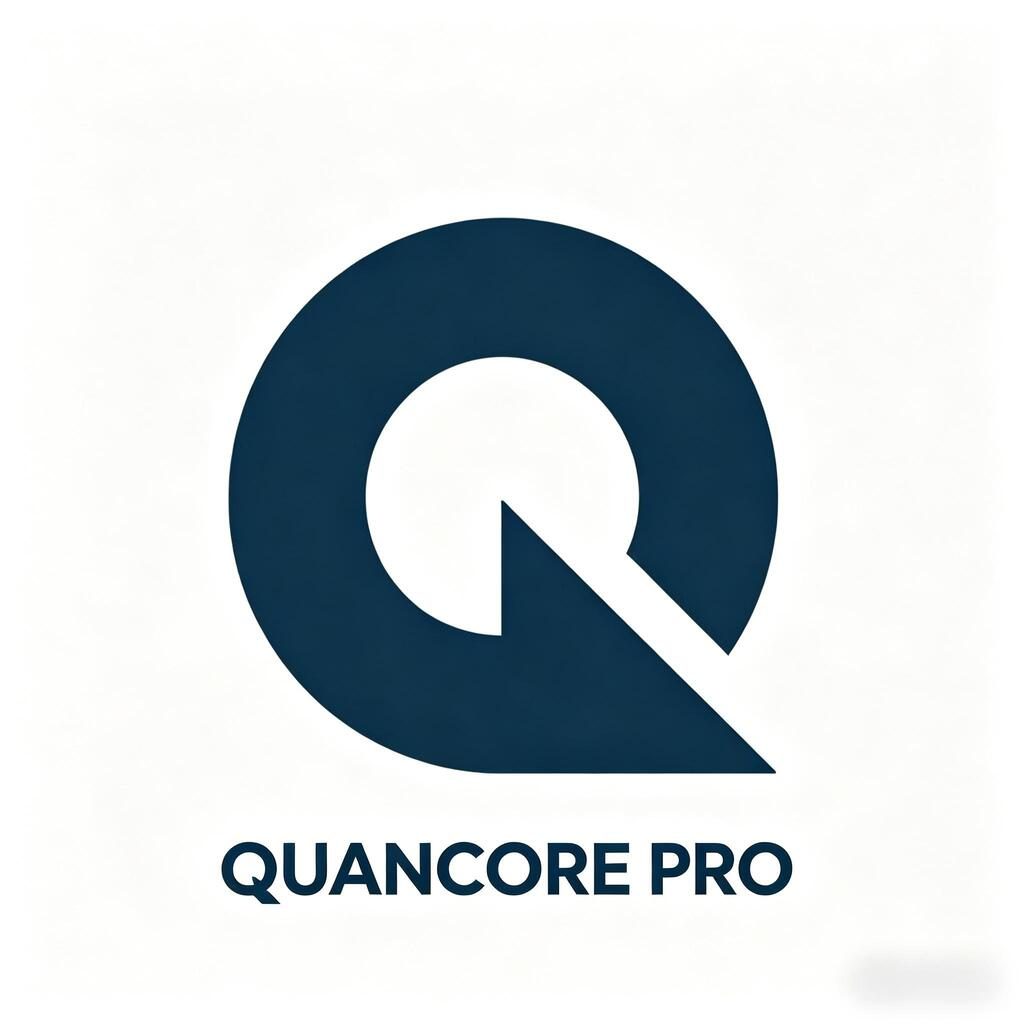
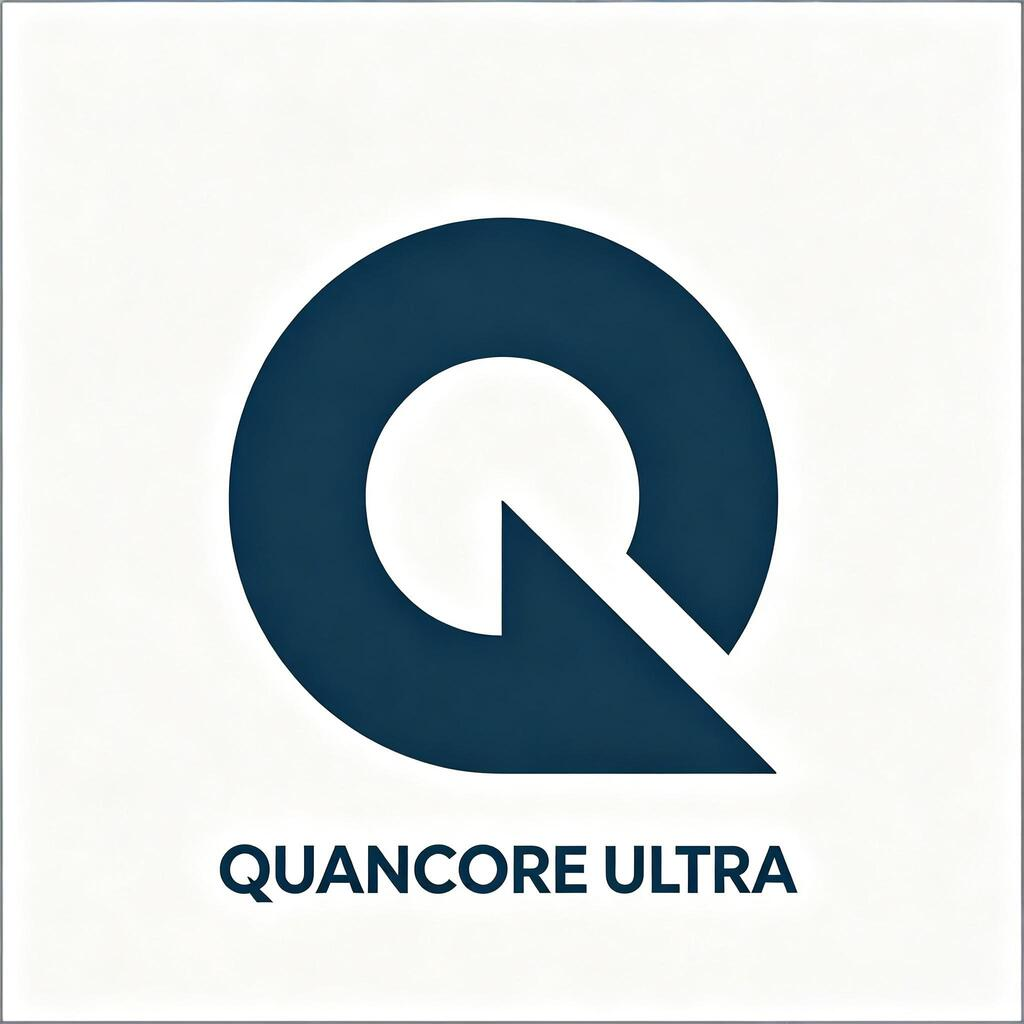
1

diff --git a/QUANCORE/privacy.html b/QUANCORE/privacy.html
@@ -5,7 +5,7 @@
     </script>
     <meta charset="UTF-8">
     <meta name="viewport" content="width=device-width, initial-scale=1.0">
-    <title>QUANCORE PRO</title>
+    <title>QUANCORE ULTRA</title>
     <script>
         !function(e,n){"object"==typeof exports&&"undefined"!=typeof module?module.exports=n():"function"==typeof define&&define.amd?define(n):(e=e||self).uni=n()}(this,(function(){"use strict";try{var e={};Object.defineProperty(e,"passive",{get:function(){!0}}),window.addEventListener("test-passive",null,e)}catch(e){}var n=Object.prototype.hasOwnProperty;function i(e,i){return n.call(e,i)}var t=[];function o(){return window.__dcloud_weex_postMessage||window.__dcloud_weex_}function a(){return window.__uniapp_x_postMessage||window.__uniapp_x_}var r=function(e,n){var i={options:{timestamp:+new Date},name:e,arg:n};if(a()){if("postMessage"===e){var r={data:n};return window.__uniapp_x_postMessage?window.__uniapp_x_postMessage(r):window.__uniapp_x_.postMessage(JSON.stringify(r))}var d={type:"WEB_INVOKE_APPSERVICE",args:{data:i,webviewIds:t}};window.__uniapp_x_postMessage?window.__uniapp_x_postMessageToService(d):window.__uniapp_x_.postMessageToService(JSON.stringify(d))}else if(o()){if("postMessage"===e){var s={data:[n]};return window.__dcloud_weex_postMessage?window.__dcloud_weex_postMessage(s):window.__dcloud_weex_.postMessage(JSON.stringify(s))}var w={type:"WEB_INVOKE_APPSERVICE",args:{data:i,webviewIds:t}};window.__dcloud_weex_postMessage?window.__dcloud_weex_postMessageToService(w):window.__dcloud_weex_.postMessageToService(JSON.stringify(w))}else{if(!window.plus)return window.parent.postMessage({type:"WEB_INVOKE_APPSERVICE",data:i,pageId:""},"*");if(0===t.length){var u=plus.webview.currentWebview();if(!u)throw new Error("plus.webview.currentWebview() is undefined");var g=u.parent(),v="";v=g?g.id:u.id,t.push(v)}if(plus.webview.getWebviewById("__uniapp__service"))plus.webview.postMessageToUniNView({type:"WEB_INVOKE_APPSERVICE",args:{data:i,webviewIds:t}},"__uniapp__service");else{var c=JSON.stringify(i);plus.webview.getLaunchWebview().evalJS('UniPlusBridge.subscribeHandler("'.concat("WEB_INVOKE_APPSERVICE",'",').concat(c,",").concat(JSON.stringify(t),");"))}}},d={navigateTo:function(){var e=arguments.length>0&&void 0!==arguments[0]?arguments[0]:{},n=e.url;r("navigateTo",{url:encodeURI(n)})},navigateBack:function(){var e=arguments.length>0&&void 0!==arguments[0]?arguments[0]:{},n=e.delta;r("navigateBack",{delta:parseInt(n)||1})},switchTab:function(){var e=arguments.length>0&&void 0!==arguments[0]?arguments[0]:{},n=e.url;r("switchTab",{url:encodeURI(n)})},reLaunch:function(){var e=arguments.length>0&&void 0!==arguments[0]?arguments[0]:{},n=e.url;r("reLaunch",{url:encodeURI(n)})},redirectTo:function(){var e=arguments.length>0&&void 0!==arguments[0]?arguments[0]:{},n=e.url;r("redirectTo",{url:encodeURI(n)})},getEnv:function(e){a()?e({uvue:!0}):o()?e({nvue:!0}):window.plus?e({plus:!0}):e({h5:!0})},postMessage:function(){var e=arguments.length>0&&void 0!==arguments[0]?arguments[0]:{};r("postMessage",e.data||{})}},s=/uni-app/i.test(navigator.userAgent),w=/Html5Plus/i.test(navigator.userAgent),u=/complete|loaded|interactive/;var g=window.my&&navigator.userAgent.indexOf(["t","n","e","i","l","C","y","a","p","i","l","A"].reverse().join(""))>-1;var v=window.swan&&window.swan.webView&&/swan/i.test(navigator.userAgent);var c=window.qq&&window.qq.miniProgram&&/QQ/i.test(navigator.userAgent)&&/miniProgram/i.test(navigator.userAgent);var p=window.tt&&window.tt.miniProgram&&/toutiaomicroapp/i.test(navigator.userAgent);var _=window.wx&&window.wx.miniProgram&&/micromessenger/i.test(navigator.userAgent)&&/miniProgram/i.test(navigator.userAgent);var m=window.qa&&/quickapp/i.test(navigator.userAgent);var f=window.ks&&window.ks.miniProgram&&/micromessenger/i.test(navigator.userAgent)&&/miniProgram/i.test(navigator.userAgent);var l=window.tt&&window.tt.miniProgram&&/Lark|Feishu/i.test(navigator.userAgent);var E=window.jd&&window.jd.miniProgram&&/micromessenger/i.test(navigator.userAgent)&&/miniProgram/i.test(navigator.userAgent);var x=window.xhs&&window.xhs.miniProgram&&/xhsminiapp/i.test(navigator.userAgent);for(var S,h=function(){window.UniAppJSBridge=!0,document.dispatchEvent(new CustomEvent("UniAppJSBridgeReady",{bubbles:!0,cancelable:!0}))},y=[function(e){if(s||w)return window.__uniapp_x_postMessage||window.__uniapp_x_||window.__dcloud_weex_postMessage||window.__dcloud_weex_?document.addEventListener("DOMContentLoaded",e):window.plus&&u.test(document.readyState)?setTimeout(e,0):document.addEventListener("plusready",e),d},function(e){if(_)return window.WeixinJSBridge&&window.WeixinJSBridge.invoke?setTimeout(e,0):document.addEventListener("WeixinJSBridgeReady",e),window.wx.miniProgram},function(e){if(c)return window.QQJSBridge&&window.QQJSBridge.invoke?setTimeout(e,0):document.addEventListener("QQJSBridgeReady",e),window.qq.miniProgram},function(e){if(g){document.addEventListener("DOMContentLoaded",e);var n=window.my;return{navigateTo:n.navigateTo,navigateBack:n.navigateBack,switchTab:n.switchTab,reLaunch:n.reLaunch,redirectTo:n.redirectTo,postMessage:n.postMessage,getEnv:n.getEnv}}},function(e){if(v)return document.addEventListener("DOMContentLoaded",e),window.swan.webView},function(e){if(p)return document.addEventListener("DOMContentLoaded",e),window.tt.miniProgram},function(e){if(m){window.QaJSBridge&&window.QaJSBridge.invoke?setTimeout(e,0):document.addEventListener("QaJSBridgeReady",e);var n=window.qa;return{navigateTo:n.navigateTo,navigateBack:n.navigateBack,switchTab:n.switchTab,reLaunch:n.reLaunch,redirectTo:n.redirectTo,postMessage:n.postMessage,getEnv:n.getEnv}}},function(e){if(f)return window.WeixinJSBridge&&window.WeixinJSBridge.invoke?setTimeout(e,0):document.addEventListener("WeixinJSBridgeReady",e),window.ks.miniProgram},function(e){if(l)return document.addEventListener("DOMContentLoaded",e),window.tt.miniProgram},function(e){if(E)return window.JDJSBridgeReady&&window.JDJSBridgeReady.invoke?setTimeout(e,0):document.addEventListener("JDJSBridgeReady",e),window.jd.miniProgram},function(e){if(x)return window.xhs.miniProgram},function(e){return document.addEventListener("DOMContentLoaded",e),d}],M=0;M<y.length&&!(S=y[M](h));M++);S||(S={});var P="undefined"!=typeof uni?uni:{};if(!P.navigateTo)for(var b in S)i(S,b)&&(P[b]=S[b]);return P.webView=S,P}));
     </script>
@@ -43,29 +43,29 @@
         <div class="icon"><img src="./logo.jpg?--pro-target=A" id="logo" alt="logo"></div>
         <div style="height: 60px;"></div>
         <div class="content" style="flex: 1 1 0%;">
-            <div class="text">&nbsp;&nbsp;&nbsp;&nbsp;&nbsp;&nbsp;Privacy Policy for QUANCORE PRO</div>
-            <div class="text">&nbsp;&nbsp;&nbsp;&nbsp;&nbsp;&nbsp;At QUANCORE PRO , one of our main priorities is the privacy of our visitors. This Privacy Policy document contains types of information that is collected and recorded by QUANCORE PRO and how we QUANCORE PROe it.</div>
-            <div class="text">&nbsp;&nbsp;&nbsp;&nbsp;&nbsp;&nbsp;If you have additional questions or require more information about our Privacy Policy, do not hesitate to contact QUANCORE PRO.</div>
+            <div class="text">&nbsp;&nbsp;&nbsp;&nbsp;&nbsp;&nbsp;Privacy Policy for QUANCORE ULTRA</div>
+            <div class="text">&nbsp;&nbsp;&nbsp;&nbsp;&nbsp;&nbsp;At QUANCORE ULTRA , one of our main priorities is the privacy of our visitors. This Privacy Policy document contains types of information that is collected and recorded by QUANCORE ULTRA and how we QUANCORE ULTRAe it.</div>
+            <div class="text">&nbsp;&nbsp;&nbsp;&nbsp;&nbsp;&nbsp;If you have additional questions or require more information about our Privacy Policy, do not hesitate to contact QUANCORE ULTRA.</div>
             <div class="text">&nbsp;&nbsp;&nbsp;&nbsp;&nbsp;&nbsp;Log Files</div>
-            <div class="text">&nbsp;&nbsp;&nbsp;&nbsp;&nbsp;&nbsp;QUANCORE PRO follows a standard procedure of QUANCORE PROing log files. These files log visitors when they QUANCORE PROe app. The information collected by log files include internet protocol (IP) addresses, browser type, Internet Service Provider (ISP), date and time stamp, referring/exit pages, and possibly the number of clicks. These are not linked to any information that is personally identifiable. The purpose of the information is for analyzing trends, administering the app, tracking QUANCORE PROers' movement on the app, and gathering demographic information.</div>
+            <div class="text">&nbsp;&nbsp;&nbsp;&nbsp;&nbsp;&nbsp;QUANCORE ULTRA follows a standard procedure of QUANCORE ULTRAing log files. These files log visitors when they QUANCORE ULTRAe app. The information collected by log files include internet protocol (IP) addresses, browser type, Internet Service Provider (ISP), date and time stamp, referring/exit pages, and possibly the number of clicks. These are not linked to any information that is personally identifiable. The purpose of the information is for analyzing trends, administering the app, tracking QUANCORE ULTRAers' movement on the app, and gathering demographic information.</div>
             <div class="text">&nbsp;&nbsp;&nbsp;&nbsp;&nbsp;&nbsp;Our Advertising Partners</div>
-            <div class="text">&nbsp;&nbsp;&nbsp;&nbsp;&nbsp;&nbsp;Some of advertisers in our app may QUANCORE PROe cookies and web beacons. Our advertising partners are listed below. Each of our advertising partners has their own Privacy Policy for their policies on QUANCORE PROer data. For easier access, we hyperlinked to their Privacy Policies below.</div>
+            <div class="text">&nbsp;&nbsp;&nbsp;&nbsp;&nbsp;&nbsp;Some of advertisers in our app may QUANCORE ULTRAe cookies and web beacons. Our advertising partners are listed below. Each of our advertising partners has their own Privacy Policy for their policies on QUANCORE ULTRAer data. For easier access, we hyperlinked to their Privacy Policies below.</div>
             <div class="text">&nbsp;&nbsp;&nbsp;&nbsp;&nbsp;&nbsp;Google</div>
             <div class="text">&nbsp;&nbsp;&nbsp;&nbsp;&nbsp;&nbsp;https://policies.google.com/technologies/ads</div>
             <div class="text">&nbsp;&nbsp;&nbsp;&nbsp;&nbsp;&nbsp;Privacy Policies</div>
-            <div class="text">&nbsp;&nbsp;&nbsp;&nbsp;&nbsp;&nbsp;You may consult this list to find the Privacy Policy for each of the advertising partners of QUANCORE PRO .</div>
-            <div class="text">&nbsp;&nbsp;&nbsp;&nbsp;&nbsp;&nbsp;Third-party ad servers or ad networks QUANCORE PROes technologies like cookies, JavaScript, or Beacons that are QUANCORE PROed in their respective advertisements and links that appear on QUANCORE PRO . They automatically receive your IP address when this occurs. These technologies are QUANCORE PROed to measure the effectiveness of their advertising campaigns and/or to personalize the advertising content that you see on this app or other apps or websites.</div>
-            <div class="text">&nbsp;&nbsp;&nbsp;&nbsp;&nbsp;&nbsp;Note that QUANCORE PRO has no access to or control over these cookies that are QUANCORE PROed by third-party advertisers.</div>
+            <div class="text">&nbsp;&nbsp;&nbsp;&nbsp;&nbsp;&nbsp;You may consult this list to find the Privacy Policy for each of the advertising partners of QUANCORE ULTRA .</div>
+            <div class="text">&nbsp;&nbsp;&nbsp;&nbsp;&nbsp;&nbsp;Third-party ad servers or ad networks QUANCORE ULTRAes technologies like cookies, JavaScript, or Beacons that are QUANCORE ULTRAed in their respective advertisements and links that appear on QUANCORE ULTRA . They automatically receive your IP address when this occurs. These technologies are QUANCORE ULTRAed to measure the effectiveness of their advertising campaigns and/or to personalize the advertising content that you see on this app or other apps or websites.</div>
+            <div class="text">&nbsp;&nbsp;&nbsp;&nbsp;&nbsp;&nbsp;Note that QUANCORE ULTRA has no access to or control over these cookies that are QUANCORE ULTRAed by third-party advertisers.</div>
             <div class="text">&nbsp;&nbsp;&nbsp;&nbsp;&nbsp;&nbsp;Third Party Privacy Policies</div>
-            <div class="text">&nbsp;&nbsp;&nbsp;&nbsp;&nbsp;&nbsp;QUANCORE PRO 's Privacy Policy does not apply to other advertisers or websites. ThQUANCORE PRO, we are advising you to consult the respective Privacy Policies of these third-party ad servers for more detailed information. It may include their practices and instructions about how to opt-out of certain options.</div>
+            <div class="text">&nbsp;&nbsp;&nbsp;&nbsp;&nbsp;&nbsp;QUANCORE ULTRA 's Privacy Policy does not apply to other advertisers or websites. ThQUANCORE ULTRA, we are advising you to consult the respective Privacy Policies of these third-party ad servers for more detailed information. It may include their practices and instructions about how to opt-out of certain options.</div>
             <div class="text">&nbsp;&nbsp;&nbsp;&nbsp;&nbsp;&nbsp;Children's Information</div>
-            <div class="text">&nbsp;&nbsp;&nbsp;&nbsp;&nbsp;&nbsp;Another part of our priority is adding protection for children while QUANCORE PROing the internet. We encourage parents and guardians to observe, participate in, and/or monitor and guide their online activity.</div>
-            <div class="text">&nbsp;&nbsp;&nbsp;&nbsp;&nbsp;&nbsp;QUANCORE PRO does not knowingly collect any Personal Identifiable Information from children under the age of 13. If you think that your child provided this kind of information on our App, we strongly encourage you to contact QUANCORE PRO immediately and we will do our best efforts to promptly remove such information from our records.</div>
+            <div class="text">&nbsp;&nbsp;&nbsp;&nbsp;&nbsp;&nbsp;Another part of our priority is adding protection for children while QUANCORE ULTRAing the internet. We encourage parents and guardians to observe, participate in, and/or monitor and guide their online activity.</div>
+            <div class="text">&nbsp;&nbsp;&nbsp;&nbsp;&nbsp;&nbsp;QUANCORE ULTRA does not knowingly collect any Personal Identifiable Information from children under the age of 13. If you think that your child provided this kind of information on our App, we strongly encourage you to contact QUANCORE ULTRA immediately and we will do our best efforts to promptly remove such information from our records.</div>
             <div class="text">&nbsp;&nbsp;&nbsp;&nbsp;&nbsp;&nbsp;Online Privacy Policy Only</div>
-            <div class="text">&nbsp;&nbsp;&nbsp;&nbsp;&nbsp;&nbsp;This Privacy Policy applies only to our online activities and is valid for visitors to our App with regards to the information that they shared and/or collect in QUANCORE PRO . This policy is not applicable to any information collected offline or via channels other than this app. Our Privacy Policy was created with the help of the App Privacy Policy Generator from App-Privacy-Policy.com</div>
+            <div class="text">&nbsp;&nbsp;&nbsp;&nbsp;&nbsp;&nbsp;This Privacy Policy applies only to our online activities and is valid for visitors to our App with regards to the information that they shared and/or collect in QUANCORE ULTRA . This policy is not applicable to any information collected offline or via channels other than this app. Our Privacy Policy was created with the help of the App Privacy Policy Generator from App-Privacy-Policy.com</div>
             <div class="text">&nbsp;&nbsp;&nbsp;&nbsp;&nbsp;&nbsp;Consent</div>
-            <div class="text">&nbsp;&nbsp;&nbsp;&nbsp;&nbsp;&nbsp;By QUANCORE PROing our app, you hereby consent to our Privacy Policy and agree to its Terms and Conditions.</div>
-            <div class="text">&nbsp;&nbsp;&nbsp;&nbsp;&nbsp;&nbsp;Generated QUANCORE PROing App Privacy Policy Generator</div>
+            <div class="text">&nbsp;&nbsp;&nbsp;&nbsp;&nbsp;&nbsp;By QUANCORE ULTRAing our app, you hereby consent to our Privacy Policy and agree to its Terms and Conditions.</div>
+            <div class="text">&nbsp;&nbsp;&nbsp;&nbsp;&nbsp;&nbsp;Generated QUANCORE ULTRAing App Privacy Policy Generator</div>
         </div>
         <div style="height: 80px; display: flex; justify-content: center; align-items: center;">
             <div class="btn">I Agree</div>
